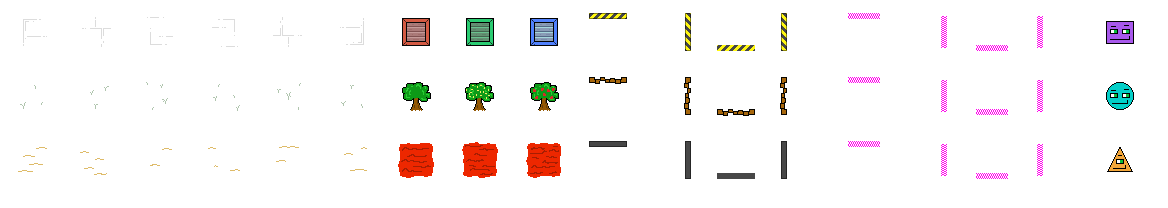
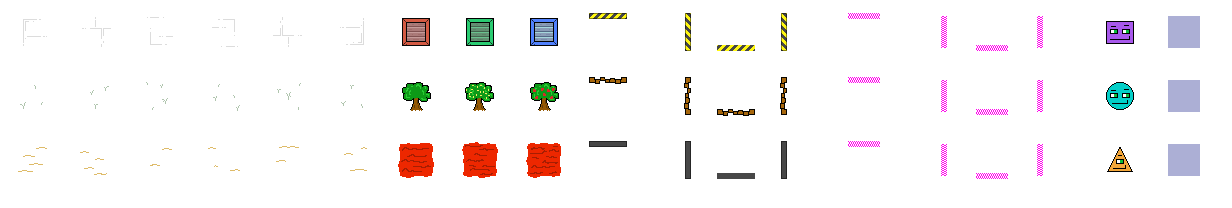
update demo
Show tiles that are in shadow

diff --git a/demo/src/demo.ts b/demo/src/demo.ts
@@ -248,20 +248,31 @@ function render() {
         for (let x = 0; x < width; x ++) {
             const dx = x - px;
             const dy = y - py;
-            if (!fov.getVisible(dx, dy)) {
-                // nothing
+            const map = fov.getVisible(dx, dy) ? fov.getTargetMap(dx, dy) : maps[pmap];
+            const mapId = parseInt(map.id);
+            if (mapId === 0) {
+                context.fillStyle = '#aaf';
+            } else if (mapId === 1) {
+                context.fillStyle = '#afa';
             } else {
-                const map = fov.getTargetMap(dx, dy);
-                const mapId = parseInt(map.id);
-                if (mapId === 0) {
-                    context.fillStyle = '#aaf';
-                } else if (mapId === 1) {
-                    context.fillStyle = '#afa';
-                } else {
-                    context.fillStyle = '#faa';
-                }
-                context.fillRect(x * 32, y * 32, 32, 32);
-                drawImage('floor' + Math.floor(1 + tileRand[index(x, y)] * 6), mapId, x, y);
+                context.fillStyle = '#faa';
+            }
+            context.fillRect(x * 32, y * 32, 32, 32);
+            drawImage('floor' + Math.floor(1 + tileRand[index(x, y)] * 6), mapId, x, y);
+        }
+    }
+    for (let y = 0; y < height; y ++) {
+        for (let x = 0; x < width; x ++) {
+            const dx = x - px;
+            const dy = y - py;
+            const map = fov.getVisible(dx, dy) ? fov.getTargetMap(dx, dy) : maps[pmap];
+            const offset = fov.getVisible(dx, dy) ? fov.getTargetOffset(dx, dy) : new WarpField.Offset(x, y);
+            const mapId = parseInt(map.id);
+            if (map.getBody(offset.x, offset.y)) {
+                drawImage('box' + Math.floor(1 + tileRand[index(x, y)] * 3), mapId, x, y);
+            }
+            if (mapId === 2 && lava[offset.y][offset.x]) {
+                drawImage('box' + Math.floor(1 + tileRand[index(x, y)] * 3), mapId, x, y);
             }
         }
     }
@@ -269,45 +280,22 @@ function render() {
         for (let x = 0; x < width; x ++) {
             const dx = x - px;
             const dy = y - py;
-            if (!fov.getVisible(dx, dy)) {
-                // nothing
-            } else {
-                const map = fov.getTargetMap(dx, dy);
-                const offset = fov.getTargetOffset(dx, dy);
-                const mapId = parseInt(map.id);
-                if (map.getBody(offset.x, offset.y)) {
-                    drawImage('box' + Math.floor(1 + tileRand[index(x, y)] * 3), mapId, x, y);
+            const map = fov.getVisible(dx, dy) ? fov.getTargetMap(dx, dy) : maps[pmap];
+            const offset = fov.getVisible(dx, dy) ? fov.getTargetOffset(dx, dy) : new WarpField.Offset(x, y);
+            const mapId = parseInt(map.id);
+            {
+                const walls = map.getWalls(offset.x, offset.y);
+                if ((walls & WarpField.CardinalDirectionFlags.NORTH) !== 0) {
+                    drawImage('north', mapId, x, y);
                 }
-                if (mapId === 2 && lava[offset.y][offset.x]) {
-                    drawImage('box' + Math.floor(1 + tileRand[index(x, y)] * 3), mapId, x, y);
+                if ((walls & WarpField.CardinalDirectionFlags.EAST) !== 0) {
+                    drawImage('east', mapId, x, y);
                 }
-            }
-        }
-    }
-    for (let y = 0; y < height; y ++) {
-        for (let x = 0; x < width; x ++) {
-            const dx = x - px;
-            const dy = y - py;
-            if (!fov.getVisible(dx, dy)) {
-                // nothing
-            } else {
-                const map = fov.getTargetMap(dx, dy);
-                const offset = fov.getTargetOffset(dx, dy);
-                const mapId = parseInt(map.id);
-                {
-                    const walls = map.getWalls(offset.x, offset.y);
-                    if ((walls & WarpField.CardinalDirectionFlags.NORTH) !== 0) {
-                        drawImage('north', mapId, x, y);
-                    }
-                    if ((walls & WarpField.CardinalDirectionFlags.EAST) !== 0) {
-                        drawImage('east', mapId, x, y);
-                    }
-                    if ((walls & WarpField.CardinalDirectionFlags.SOUTH) !== 0) {
-                        drawImage('south', mapId, x, y);
-                    }
-                    if ((walls & WarpField.CardinalDirectionFlags.WEST) !== 0) {
-                        drawImage('west', mapId, x, y);
-                    }
+                if ((walls & WarpField.CardinalDirectionFlags.SOUTH) !== 0) {
+                    drawImage('south', mapId, x, y);
+                }
+                if ((walls & WarpField.CardinalDirectionFlags.WEST) !== 0) {
+                    drawImage('west', mapId, x, y);
                 }
             }
         }
@@ -316,27 +304,34 @@ function render() {
         for (let x = 0; x < width; x ++) {
             const dx = x - px;
             const dy = y - py;
-            if (!fov.getVisible(dx, dy)) {
-                // nothing
-            } else {
-                const map = fov.getTargetMap(dx, dy);
-                const offset = fov.getTargetOffset(dx, dy);
-                const mapId = parseInt(map.id);
-                {
-                    const warps = map.getWarpFlags(offset.x, offset.y);
-                    if ((warps & WarpField.CardinalDirectionFlags.NORTH) !== 0) {
-                        drawImage('warpnorth', mapId, x, y);
-                    }
-                    if ((warps & WarpField.CardinalDirectionFlags.EAST) !== 0) {
-                        drawImage('warpeast', mapId, x, y);
-                    }
-                    if ((warps & WarpField.CardinalDirectionFlags.SOUTH) !== 0) {
-                        drawImage('warpsouth', mapId, x, y);
-                    }
-                    if ((warps & WarpField.CardinalDirectionFlags.WEST) !== 0) {
-                        drawImage('warpwest', mapId, x, y);
-                    }
+            const map = fov.getVisible(dx, dy) ? fov.getTargetMap(dx, dy) : maps[pmap];
+            const offset = fov.getVisible(dx, dy) ? fov.getTargetOffset(dx, dy) : new WarpField.Offset(x, y);
+            const mapId = parseInt(map.id);
+            {
+                const warps = map.getWarpFlags(offset.x, offset.y);
+                if ((warps & WarpField.CardinalDirectionFlags.NORTH) !== 0) {
+                    drawImage('warpnorth', mapId, x, y);
                 }
+                if ((warps & WarpField.CardinalDirectionFlags.EAST) !== 0) {
+                    drawImage('warpeast', mapId, x, y);
+                }
+                if ((warps & WarpField.CardinalDirectionFlags.SOUTH) !== 0) {
+                    drawImage('warpsouth', mapId, x, y);
+                }
+                if ((warps & WarpField.CardinalDirectionFlags.WEST) !== 0) {
+                    drawImage('warpwest', mapId, x, y);
+                }
+            }
+        }
+    }
+    for (let y = 0; y < height; y ++) {
+        for (let x = 0; x < width; x ++) {
+            const dx = x - px;
+            const dy = y - py;
+            const map = fov.getVisible(dx, dy) ? fov.getTargetMap(dx, dy) : maps[pmap];
+            const mapId = parseInt(map.id);
+            if (!fov.getVisible(dx, dy)) {
+                drawImage('shadow', mapId, x, y);
             }
         }
     }
@@ -413,6 +408,7 @@ const imageXOff: {[id: string]: number} = {
     'warpsouth': 15,
     'warpwest': 16,
     'player': 17,
+    'shadow': 18,
 };
 const tiles = new Image();
 tiles.src = './tiles.png';
